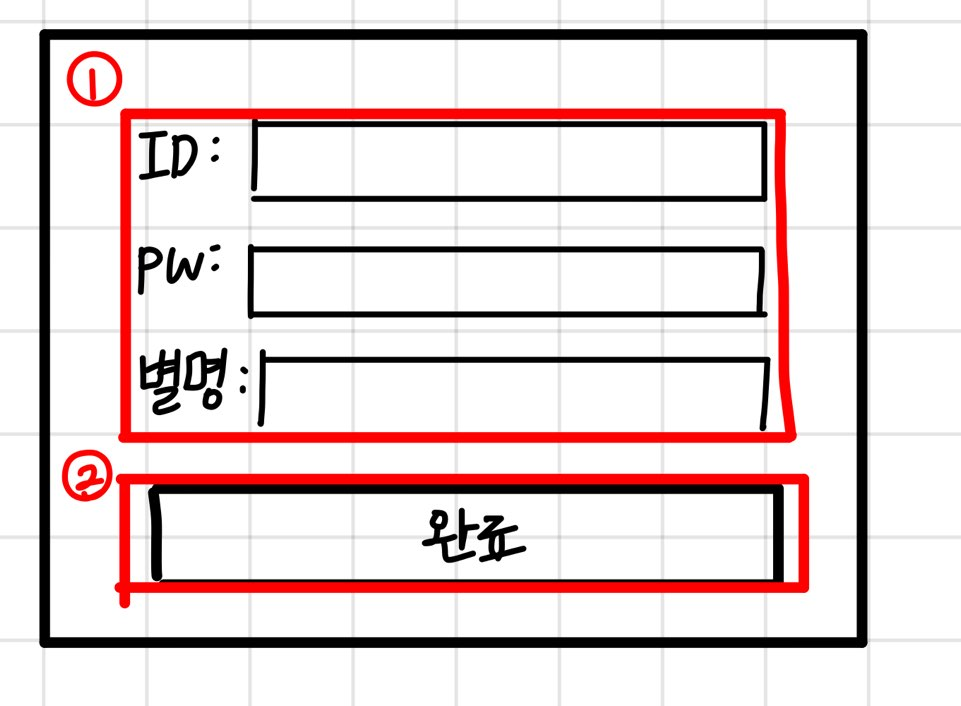
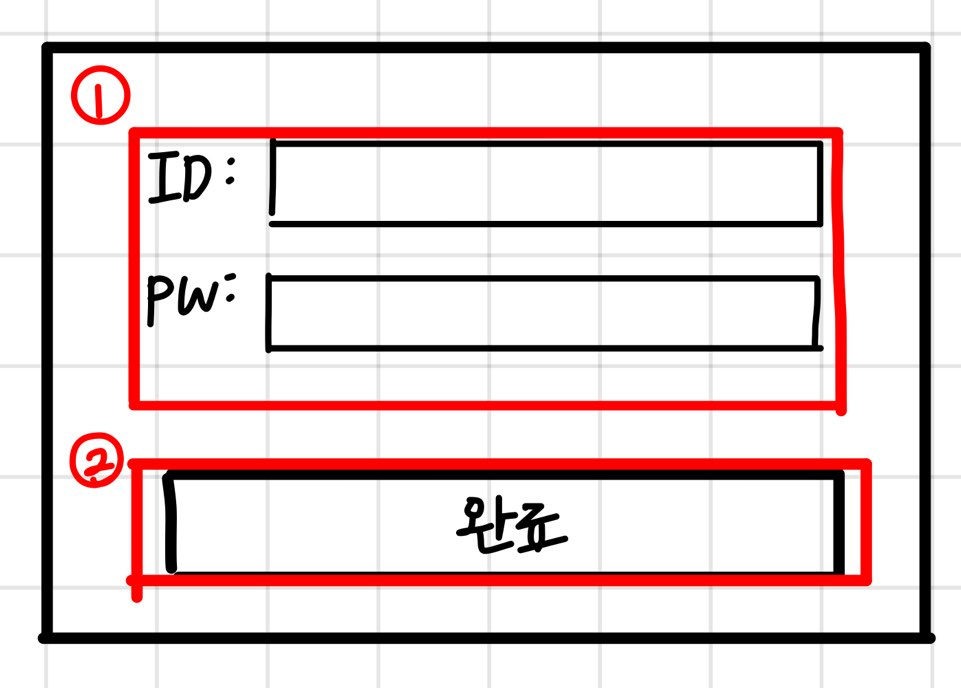
SRS & Image Update

diff --git a/specification/SRS.md b/specification/SRS.md
@@ -17,7 +17,6 @@
 
 ### 4) 방 생성
 - 방 제목을 입력 > 방 별 인식 코드를 난수로 발생
-- 특수문자를 입력 > 경고창 출력
 - 기존에 있는 방 제목 > 경고창 출력
 - 방 제목 길이 20자로 제한
 - 방 생성 시 데이터 베이스에 등록
@@ -25,31 +24,25 @@
 ### 5) 방 삭제
 - 삭제할 방 클릭 후 삭제 버튼 클릭
 - 로그인 된 사용자와 방장 불일치 > 경고창 출력
-- 방 인식 코드가 데이터 베이스에 없는 경우 > 경고창 출력
-- 삭제 여부를 재확인 > 삭제 또는 취소
+- 삭제
 
 ### 6) 파일 목록 출력
 - 데이터 베이스에 등록된 데이터를 사용자 기준에 따라 정렬해 출력
 - 기본 정렬은 파일 업로드 날짜 기준
-- 뒤로가기 버튼 클릭 > 방 목록으로 이동
 
 ### 7) 파일 업로드
 - 사용자가 파일 불러와서 업로드 > 데이터 베이스 등록
-- 파일에 접근 권한이 없는 경우 > 경고창 출력
-- 파이썬 파일(.py)이 아닌 경우 > 경고창 출력
 - 파일 업데이트
   - 로그인 된 사용자와 파일의 소유자가 같고, 파일명이 이전에 등록된 파일명과 같으면 내용만 업데이트
-  - 업데이트 여부를 재확인 > 업데이트 또는 취소
+  - 업데이트
 
 ### 8) 파일 삭제
 - 삭제할 파일 클릭 후 삭제 버튼 클릭
 - 로그인 된 사용자와 파일 소유자 불일치 > 경고창 출력
-- 파일명이 데이터 베이스에 없는 경우 > 경고창 출력
-- 삭제 여부를 재확인 > 삭제 또는 취소
+- 삭제
 
 ### 9) 파일 내용 열람
 - 파이썬 문법 기준으로 하이라이팅된 텍스트 출력
-- "좋아요" 버튼 > 파일별 "좋아요" 수 기록
 <br/>
 
 ## 사용자 인터페이스 요구사항
@@ -63,17 +56,17 @@
 
 <img src="https://github.com/dulsik2/SW2_ADproject_ShareCode/blob/master/specification/img/2.jpg?raw=true" width="400px">
 
->1. 사용자가 사용할 ID, PW, 별명을 입력받는 에디트창
+>1. 사용자가 사용할 ID, PW을 입력받는 에디트창
 >2. 완료 버튼 > 예외 사항 발생 시 경고창 출력
 
 <br/>
 
 <img src="https://github.com/dulsik2/SW2_ADproject_ShareCode/blob/master/specification/img/3.jpg?raw=true" width="400px">
 
->1. 정렬 기준 콤보 박스와 체크 버튼
+>1. 정렬 기준 콤보 박스
 >2. 방 타이틀, 파일 수, 업로더 정보, 생성 날짜 표시
 >3. 스크롤 바
->4. 삭제할 방 선택 후 방 삭제 버튼 > 삭제 여부 재확인 및 예외에 대한 경고창 출력
+>4. 삭제할 방 선택 후 방 삭제 버튼 > 삭제 또는 예외에 대한 경고창 출력
 >5. 방 만들기 버튼 > 방 생성 창으로 연결
 
 <br/>
@@ -88,10 +81,10 @@
 
 <img src="https://github.com/dulsik2/SW2_ADproject_ShareCode/blob/master/specification/img/5.jpg?raw=true" width="400px">
 
->1. 정렬 기준 콤보 박스와 체크 버튼
->2. 파일 이름, "좋아요" 수, 업로더 정보, 생성 날짜 표시
+>1. 정렬 기준 콤보 박스
+>2. 파일 이름, 업로더 정보, 생성 날짜 표시
 >3. 스크롤 바
->4. 삭제할 파일 선택 후 파일 삭제 버튼 > 삭제 여부 재확인 및 예외에 대한 경고창 출력
+>4. 삭제할 파일 선택 후 파일 삭제 버튼 > 삭제 또는 예외에 대한 경고창 출력
 >5. 업로드 버튼 > 파일 불러오기 창으로 연결
 
 <br/>
@@ -105,8 +98,7 @@
 <img src="https://github.com/dulsik2/SW2_ADproject_ShareCode/blob/master/specification/img/7.jpg?raw=true" width="400px">
 
 >1. 파일 이름 출력
->2. "좋아요" 버튼
->3. 파이썬 문법 기준으로 하이라이팅된 텍스트 출력
+>2. 파이썬 문법 기준으로 하이라이팅된 텍스트 출력
 
 <br/>
 
